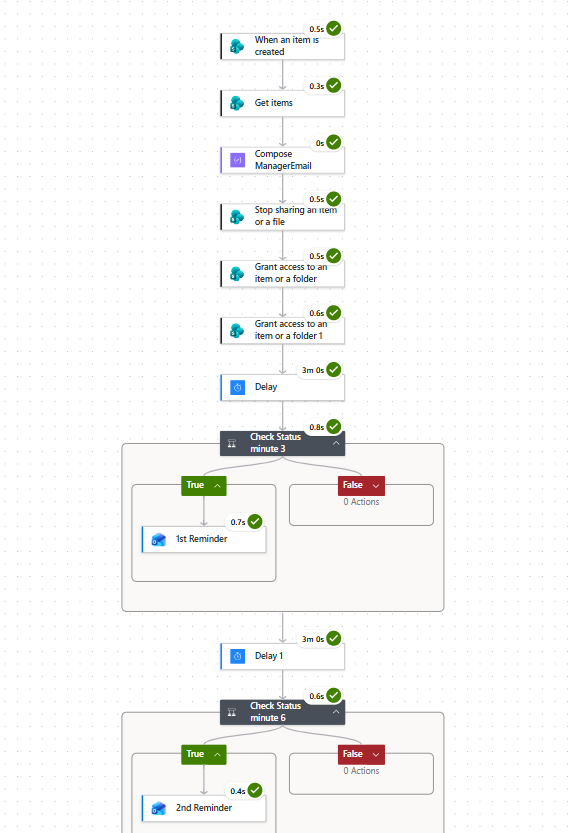
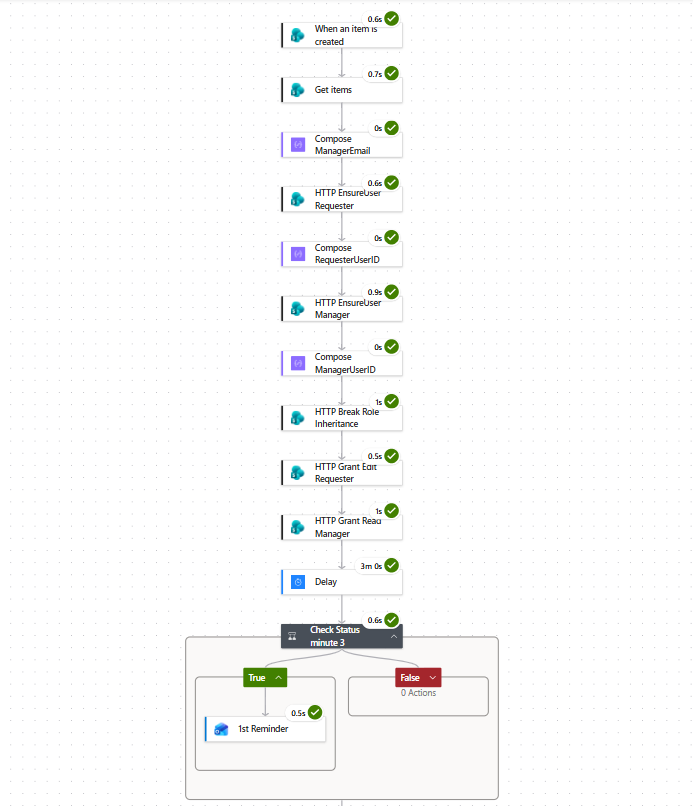
docs: update SharePoint item level permission guide and flow diagrams

Changed region(s): [[0.2091, 0.0, 0.7469, 1.0], [0.7768, 0.8685, 0.8067, 1.0], [0.7768, 0.5583, 0.8067, 0.7134]]

diff --git a/SharePoint_Item_Level_Permissions_Power_Automate.md b/SharePoint_Item_Level_Permissions_Power_Automate.md
@@ -85,20 +85,163 @@ flowchart TD
 ---
 
 
-### Step 1 to Step 7: Setting Up Item Permissions & Getting Manager
+### Step 1 to Step 10: Setting Up Item Permissions & Getting Manager (via HTTP REST API)
 
-1. **Trigger**: `SharePoint - When an item is created` (List: `Leave Management`).
-2. **Get Items from `Manager_List`**:
-   * **Filter Query**: `Member/EMail eq '@{triggerOutputs()?['body/Author/Email']}'`
-3. **Extract Manager Email**:
-   * `Compose` action `Compose_ManagerEmail`:
-     ```text
-     first(outputs('Get_items')?['body/value'])?['Manager']?['Email']
-     ```
-4. **Stop Sharing Item**: Break permission inheritance.
-5. **Grant Access to Requester**: `Created By Email` (`Can edit`).
-6. **Grant Access to Manager**: Outputs of `Compose_ManagerEmail` (`Can view`).
-7. **Grant Access to Site Owners**: Grant `Full Control` / `Edit` back to Site Owners.
+> [!NOTE]
+> All permission actions below use the **"Send an HTTP request to SharePoint"** action instead of the built-in "Stop Sharing" and "Grant Access" connectors. This gives you full control and avoids connector quirks.
+
+> [!IMPORTANT]
+> **Action Card Names Matter!** The names below (e.g. `HTTP_EnsureUser_Requester`) are used in the `outputs('...')` expressions of later steps. **Rename each action card exactly as shown** — otherwise the expressions will break.
+
+#### Step 1 — Trigger
+
+* **Card Name**: `When_a_new_item_is_created`
+* **Action**: `SharePoint - When an item is created`
+* **List Name**: `Leave Management`
+
+#### Step 2 — Get Manager from Manager_List
+
+* **Card Name**: `Get_items` 
+* **Action**: `SharePoint - Get items`
+* **List Name**: `Manager_List`
+* **Filter Query**: `Member/EMail eq '@{triggerOutputs()?['body/Author/Email']}'`
+
+#### Step 3 — Extract Manager Email
+
+* **Card Name**: `Compose_ManagerEmail`
+* **Action**: `Data Operations - Compose`
+* **Inputs (Expression)**:
+  ```text
+  first(outputs('Get_items')?['body/value'])?['Manager']?['Email']
+  ```
+
+#### Step 4 — Resolve Requester's User ID (HTTP: EnsureUser)
+
+* **Card Name**: `HTTP_EnsureUser_Requester`
+* **Action**: `Send an HTTP request to SharePoint`
+
+| Field | Value |
+|:---|:---|
+| **Site Address** | `https://yourtenant.sharepoint.com/sites/yoursite` |
+| **Method** | `POST` |
+| **Uri** | `_api/web/ensureuser` |
+| **Headers** | `Accept` : `application/json;odata=verbose` <br> `Content-Type` : `application/json;odata=verbose` |
+| **Body** | `{ "logonName": "@{triggerOutputs()?['body/Author/Email']}" }` |
+
+* **Card Name**: `Compose_RequesterUserID`
+* **Action**: `Data Operations - Compose`
+* **Inputs (Expression)**:
+  ```text
+  outputs('HTTP_EnsureUser_Requester')?['body']?['d']?['Id']
+  ```
+
+> [!TIP]
+> **Shortcut**: If the trigger already gives you `AuthorId`, you can skip this step and directly use `triggerOutputs()?['body/AuthorId']` as the Requester's principal ID.
+
+#### Step 5 — Resolve Manager's User ID (HTTP: EnsureUser)
+
+* **Card Name**: `HTTP_EnsureUser_Manager`
+* **Action**: `Send an HTTP request to SharePoint`
+
+| Field | Value |
+|:---|:---|
+| **Site Address** | `https://yourtenant.sharepoint.com/sites/yoursite` |
+| **Method** | `POST` |
+| **Uri** | `_api/web/ensureuser` |
+| **Headers** | `Accept` : `application/json;odata=verbose` <br> `Content-Type` : `application/json;odata=verbose` |
+| **Body** | `{ "logonName": "@{outputs('Compose_ManagerEmail')}" }` |
+
+* **Card Name**: `Compose_ManagerUserID`
+* **Action**: `Data Operations - Compose`
+* **Inputs (Expression)**:
+  ```text
+  outputs('HTTP_EnsureUser_Manager')?['body']?['d']?['Id']
+  ```
+
+#### Step 6 — Get Site Owners Group ID (HTTP)
+
+* **Card Name**: `HTTP_Get_Owners_Group`
+* **Action**: `Send an HTTP request to SharePoint`
+
+| Field | Value |
+|:---|:---|
+| **Site Address** | `https://yourtenant.sharepoint.com/sites/yoursite` |
+| **Method** | `GET` |
+| **Uri** | `_api/web/associatedownergroup?$select=Id` |
+| **Headers** | `Accept` : `application/json;odata=verbose` |
+| **Body** | *(leave empty)* |
+
+* **Card Name**: `Compose_OwnersGroupID`
+* **Action**: `Data Operations - Compose`
+* **Inputs (Expression)**:
+  ```text
+  outputs('HTTP_Get_Owners_Group')?['body']?['d']?['Id']
+  ```
+
+#### Step 7 — Break Role Inheritance (HTTP)
+
+This removes **all** inherited permissions from the item so you can set custom ones.
+
+* **Card Name**: `HTTP_Break_Role_Inheritance`
+* **Action**: `Send an HTTP request to SharePoint`
+
+| Field | Value |
+|:---|:---|
+| **Site Address** | `https://yourtenant.sharepoint.com/sites/yoursite` |
+| **Method** | `POST` |
+| **Uri** | `_api/web/lists/getbytitle('Leave Management')/items(@{triggerOutputs()?['body/ID']})/breakroleinheritance(copyRoleAssignments=false, clearSubscopes=true)` |
+| **Headers** | `Accept` : `application/json;odata=verbose` |
+| **Body** | *(leave empty)* |
+
+> [!CAUTION]
+> After this action, **nobody** has access to the item — not even Site Owners. Steps 8, 9, and 10 must follow immediately to restore the correct access.
+
+#### Step 8 — Grant Edit Access to Requester (Member) (HTTP)
+
+* **Card Name**: `HTTP_Grant_Edit_Requester`
+* **Action**: `Send an HTTP request to SharePoint`
+
+| Field | Value |
+|:---|:---|
+| **Site Address** | `https://yourtenant.sharepoint.com/sites/yoursite` |
+| **Method** | `POST` |
+| **Uri** | `_api/web/lists/getbytitle('Leave Management')/items(@{triggerOutputs()?['body/ID']})/roleassignments/addroleassignment(principalid=@{outputs('Compose_RequesterUserID')}, roledefid=1073741827)` |
+| **Headers** | `Accept` : `application/json;odata=verbose` |
+| **Body** | *(leave empty)* |
+
+#### Step 9 — Grant Read Access to Manager (HTTP)
+
+* **Card Name**: `HTTP_Grant_Read_Manager`
+* **Action**: `Send an HTTP request to SharePoint`
+
+| Field | Value |
+|:---|:---|
+| **Site Address** | `https://yourtenant.sharepoint.com/sites/yoursite` |
+| **Method** | `POST` |
+| **Uri** | `_api/web/lists/getbytitle('Leave Management')/items(@{triggerOutputs()?['body/ID']})/roleassignments/addroleassignment(principalid=@{outputs('Compose_ManagerUserID')}, roledefid=1073741826)` |
+| **Headers** | `Accept` : `application/json;odata=verbose` |
+| **Body** | *(leave empty)* |
+
+#### Step 10 — Grant Full Control to Site Owners Group (HTTP)
+
+* **Card Name**: `HTTP_Grant_FullControl_Owners`
+* **Action**: `Send an HTTP request to SharePoint`
+
+| Field | Value |
+|:---|:---|
+| **Site Address** | `https://yourtenant.sharepoint.com/sites/yoursite` |
+| **Method** | `POST` |
+| **Uri** | `_api/web/lists/getbytitle('Leave Management')/items(@{triggerOutputs()?['body/ID']})/roleassignments/addroleassignment(principalid=@{outputs('Compose_OwnersGroupID')}, roledefid=1073741829)` |
+| **Headers** | `Accept` : `application/json;odata=verbose` |
+| **Body** | *(leave empty)* |
+
+> [!NOTE]
+> **Role Definition ID Reference:**
+> | Role | roledefid |
+> |:---|:---|
+> | Full Control | `1073741829` |
+> | Edit / Contribute | `1073741827` |
+> | Read / View Only | `1073741826` |
 
 ---
 
